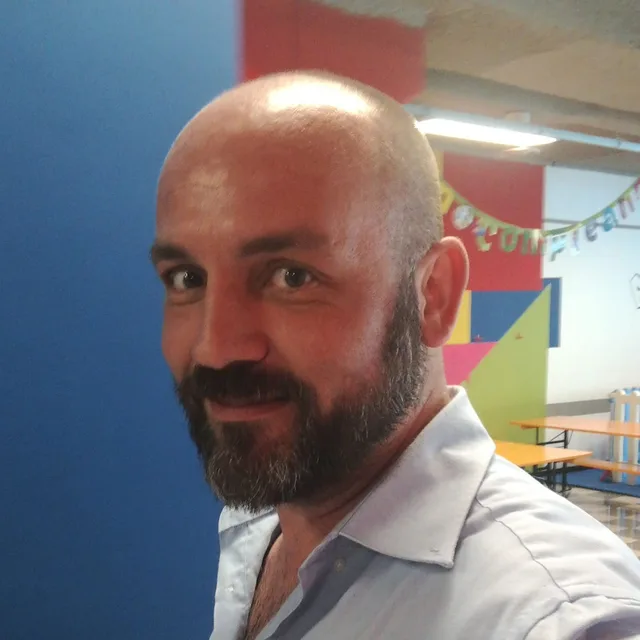
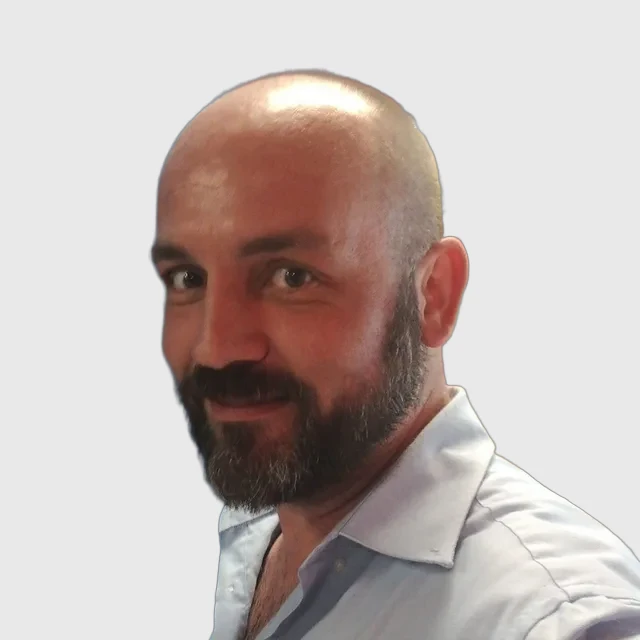
stampa: la seconda foto del fondatore, e il selfie senza piu' i festoni dietro
La foto caricata era il selfie con lo sfondo della festa: scontornata
(birefnet-portrait) e ricomposta su grigio chiaro #E9E9E9. Accanto ora
c'e' anche la foto sul palco (michele-petraroli-2.webp), scaricabile
dalla sezione fondatore e dalla griglia risorse, con etichetta nelle
11 lingue (photo_download_2).

diff --git a/src/components/stampa/StampaView.tsx b/src/components/stampa/StampaView.tsx
@@ -164,6 +164,15 @@ export default function StampaView({
           <a href="/michele-petraroli.webp" download className="b2" style={{ fontSize: 13, textAlign: 'center' }}>
             {d.photo_download}
           </a>
+          <Image
+            src="/michele-petraroli-2.webp"
+            alt="Michele Angelo Petraroli, fondatore di GeoTapp, sul palco"
+            width={640}
+            height={640}
+          />
+          <a href="/michele-petraroli-2.webp" download className="b2" style={{ fontSize: 13, textAlign: 'center' }}>
+            {d.photo_download_2}
+          </a>
         </div>
         <div className="r d1">
           <p className="kk k" style={{ color: 'var(--seal)' }}>{d.founder_label}</p>
@@ -197,6 +206,14 @@ export default function StampaView({
               <img src="/michele-petraroli.webp" alt={d.photo_download} loading="lazy" style={{ objectFit: 'cover', borderRadius: 8 }} />
             </span>
             <b>{d.photo_download}</b>
+            <span>.webp</span>
+          </a>
+          <a href="/michele-petraroli-2.webp" download>
+            <span className="thumb">
+              {/* eslint-disable-next-line @next/next/no-img-element */}
+              <img src="/michele-petraroli-2.webp" alt={d.photo_download_2} loading="lazy" style={{ objectFit: 'cover', borderRadius: 8 }} />
+            </span>
+            <b>{d.photo_download_2}</b>
             <span>.webp</span>
           </a>
           <a href={localizePath('/risorse/gps-lavoratori-ue/', locale)}>
